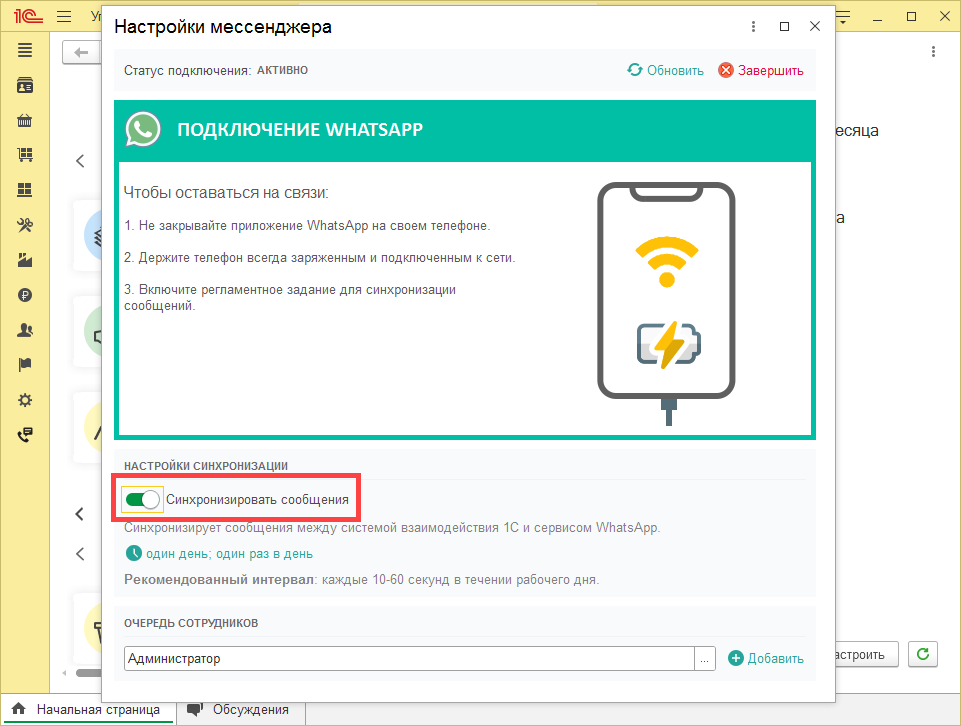
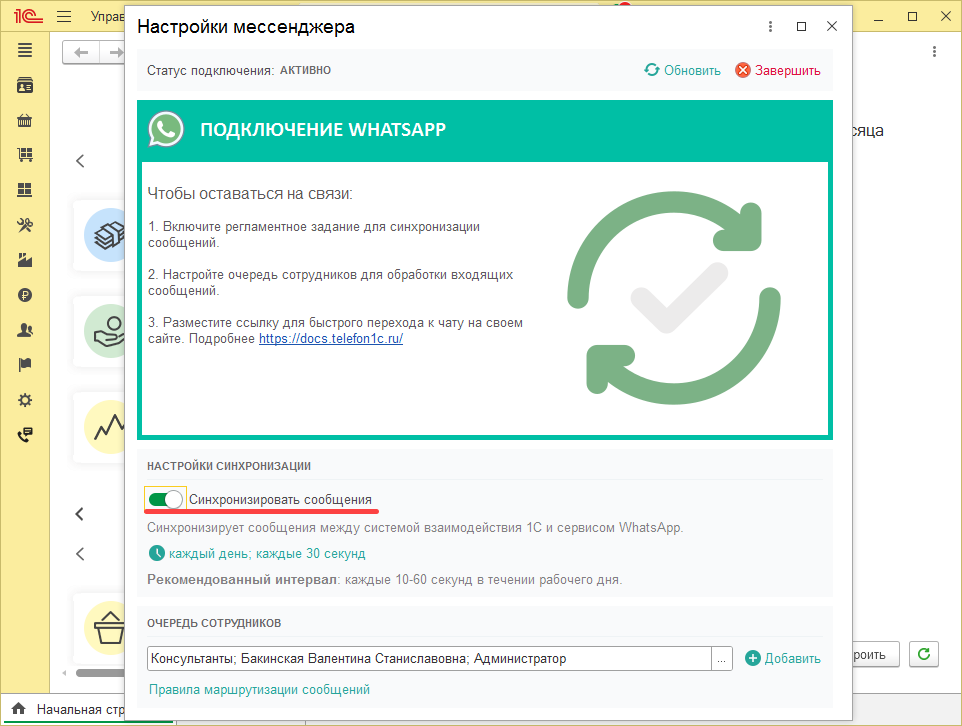
переделывал картинки, гифки раздела "Отчеты по звонкам"

diff --git a/src/get-started/whatsapp.md b/src/get-started/whatsapp.md
@@ -112,7 +112,7 @@ icon: tools
     src="/assets/whatsapp/wp_1.png"
     data-original="/assets/whatsapp/wp_1.png"
     srcset="/assets/whatsapp/wp_1_prev.png 1x, /assets/whatsapp/wp_1.png 2x" 
-    alt="МИКО: whatsapp синхронизироват сообщения"
+    alt="МИКО: whatsapp синхронизировать сообщения"
 /> 
 
 Настройке расписание регламентного задания. Входящие сообщения поступают моментально, время отправки исходящих
@@ -136,6 +136,16 @@ icon: tools
 Право читать и отправлять сообщения, получают все пользователи состоящие в группе доступа
 **МИКО: Пользователи телефонии и мессенджера**.
 !!!
+
+## Маршрутизация входящих сообщений
+Если маршрутизация по ключевым словам на определенных сотрудников не используется, можно данный раздел не заполнять. <br>
+В данном случае входящие сообщения будут поступать в очередь всем сотрудникам, которые являются участникам очереди.
+
+<img class="miko-shadow play-on-hover"  
+    src="/assets/whatsapp/wp_5.gif"
+   alt="МИКО: whatsapp маршрутизация входящий сообщений"
+/> 
+
 ## Прием входящего сообщения
 Теперь сообщения, отправленные в WhatsApp на номер, к которому вы привязывали панель телефонии в пункте [Подключение WhatsApp](#подключение-whatsapp) будут отображаться у сотрудников, которых вы сделали участниками очереди в предыдущем пункте. 
 
